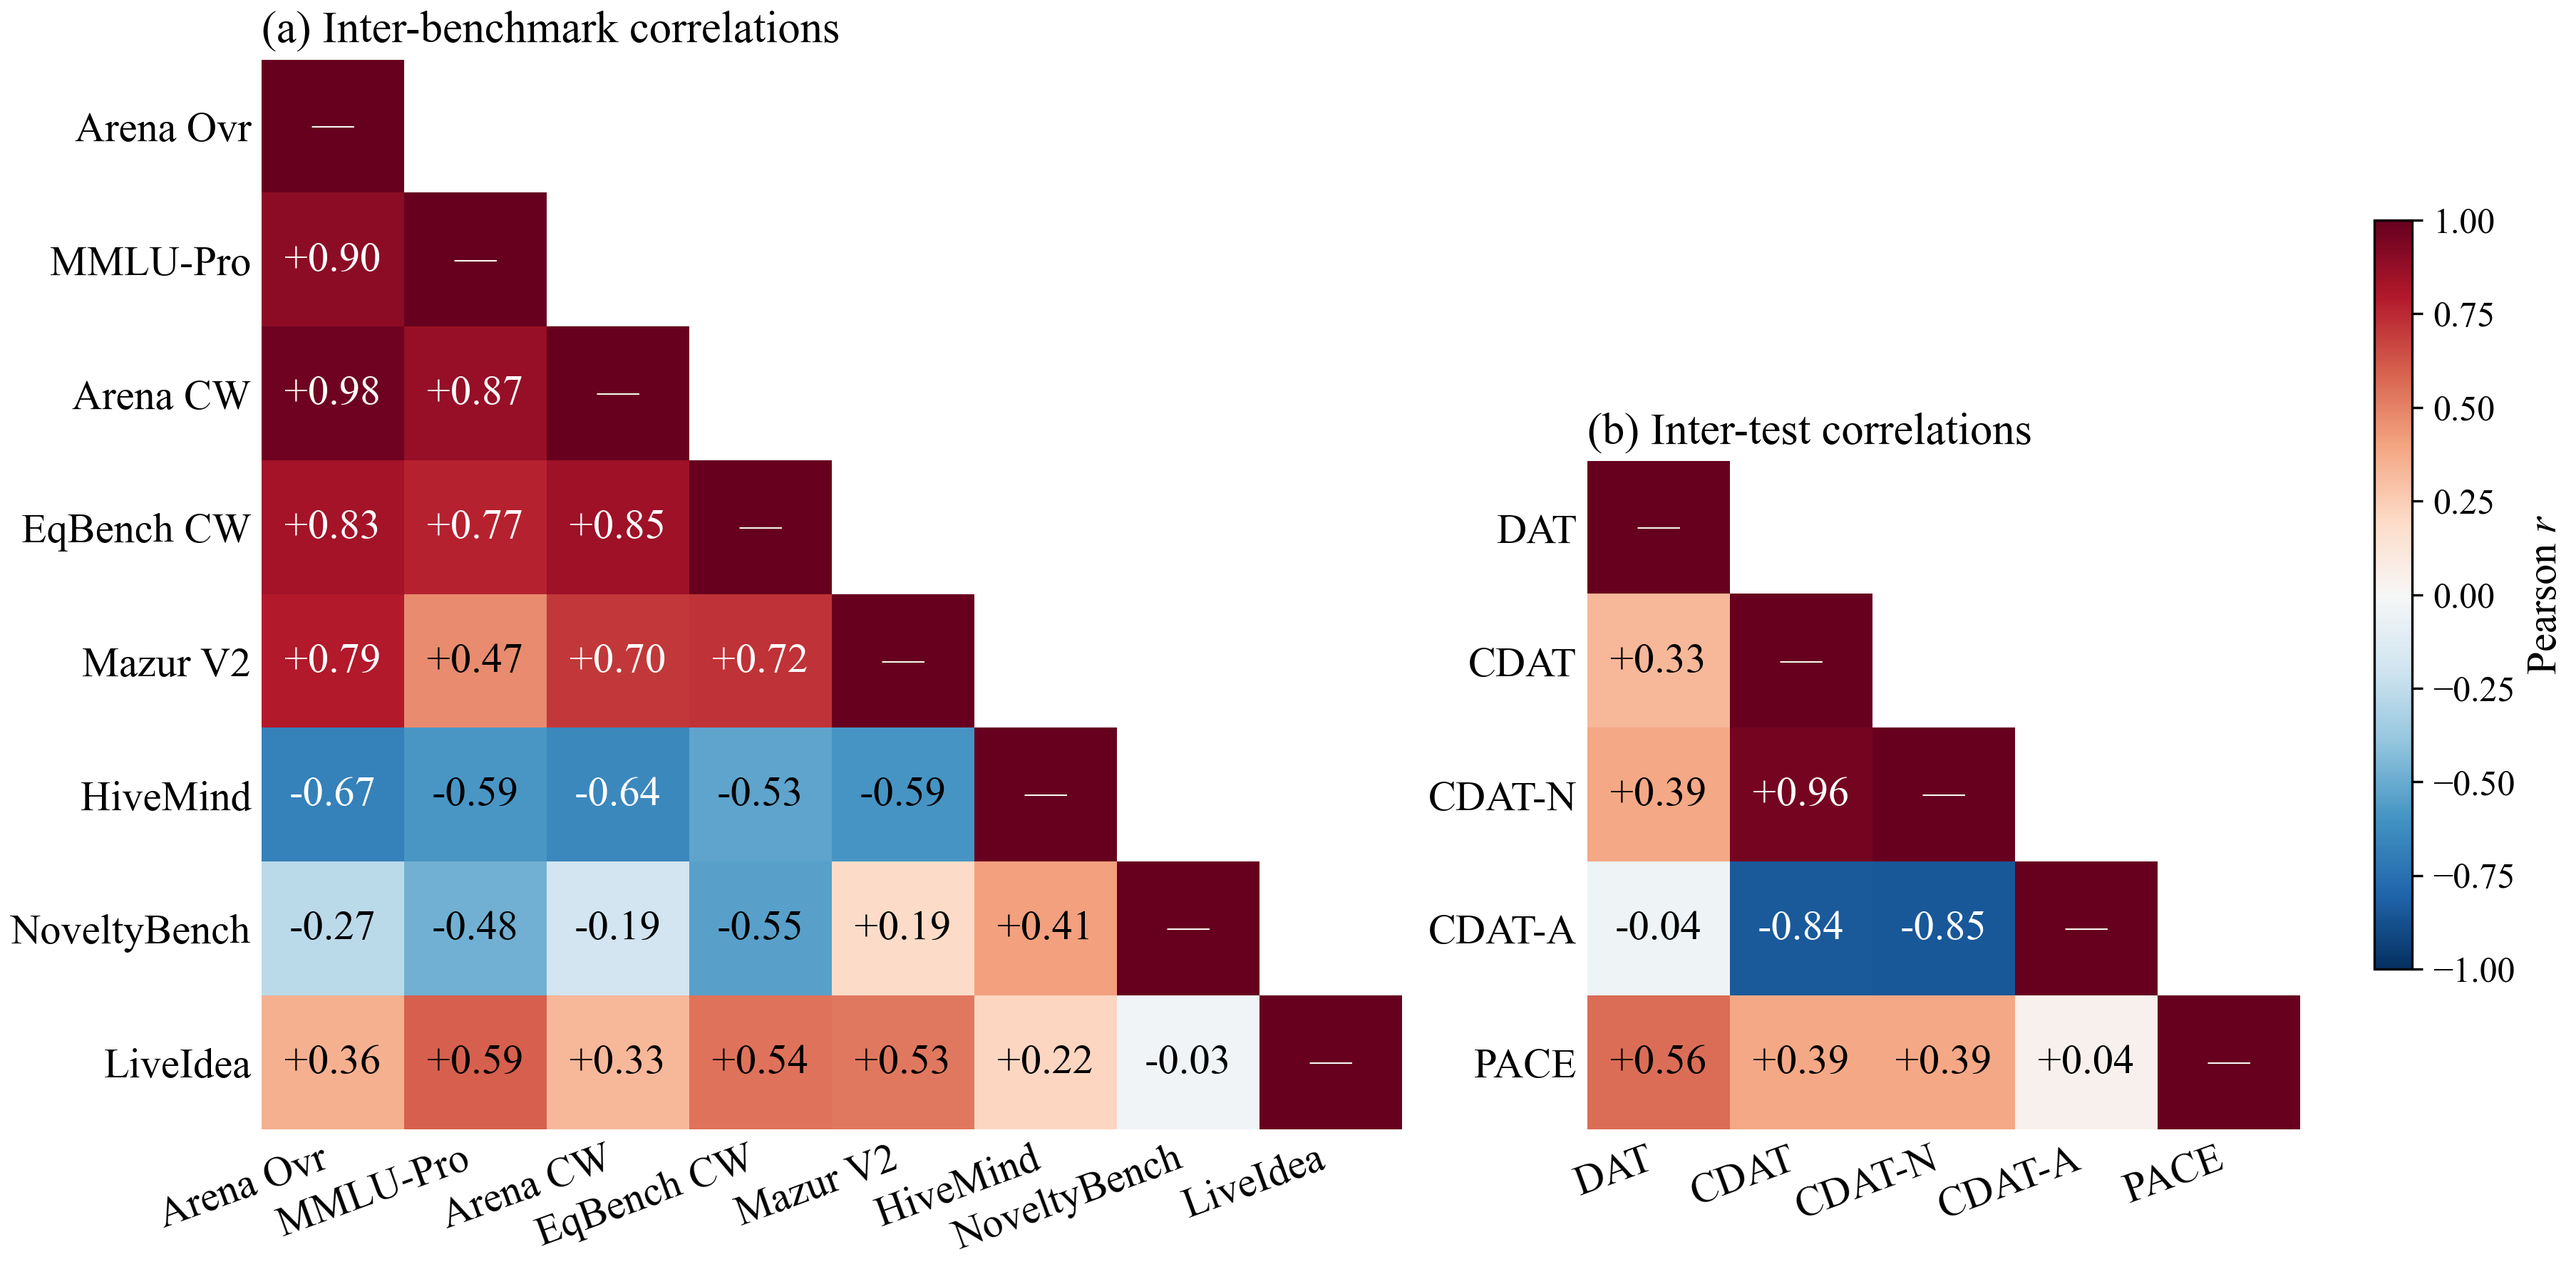
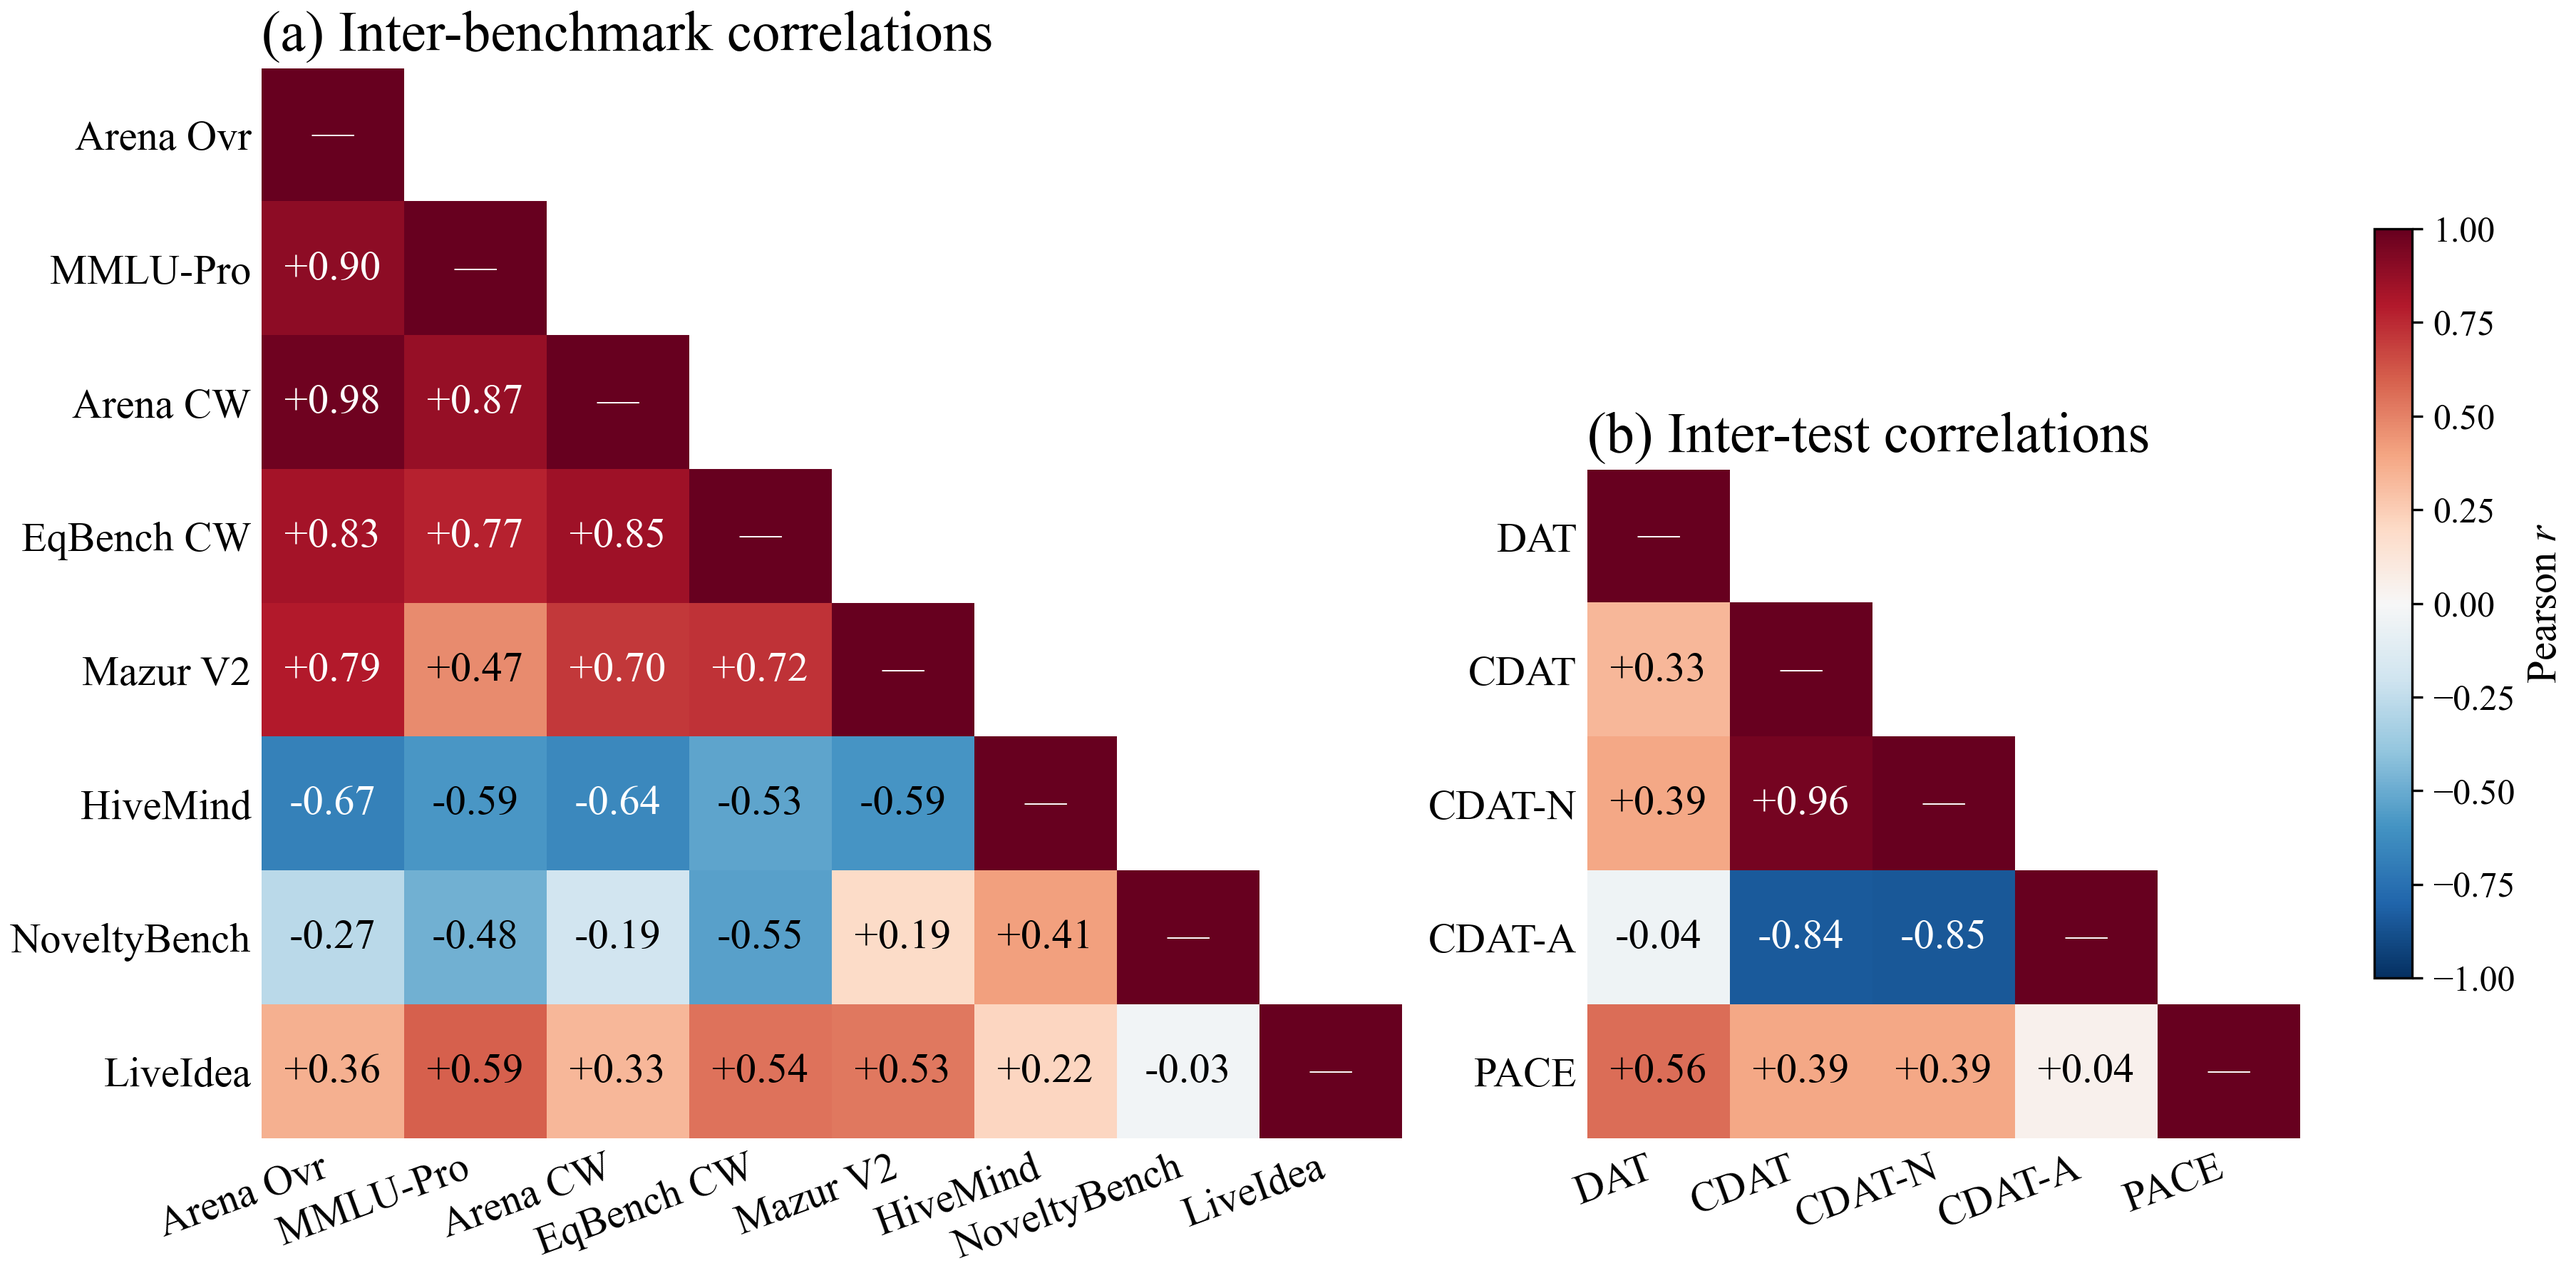
fig_benchmark_correlations: bump subplot title fontsize 15 -> 19

diff --git a/src/dat_eval/scripts/make_figures.py b/src/dat_eval/scripts/make_figures.py
@@ -961,9 +961,9 @@ def fig_benchmark_correlations(benchmarks):
     ax2.set_position([pos2.x0, pos1.y0, pos2.width, cell_size * nb])
 
     ax1.set_title("(a) Inter-benchmark correlations",
-                   fontsize=15, loc="left", pad=6)
+                   fontsize=19, loc="left", pad=6)
     ax2.set_title("(b) Inter-test correlations",
-                   fontsize=15, loc="left", pad=6)
+                   fontsize=19, loc="left", pad=6)
 
     cbar = fig.colorbar(im, ax=[ax1, ax2], shrink=0.7, pad=0.03)
     cbar.set_label("Pearson $r$", fontsize=14)
